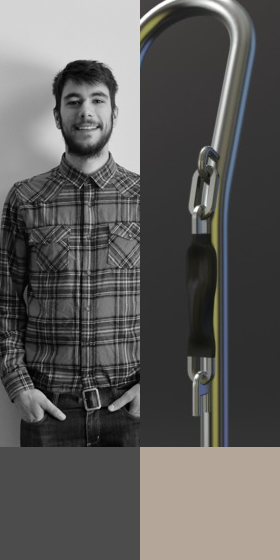
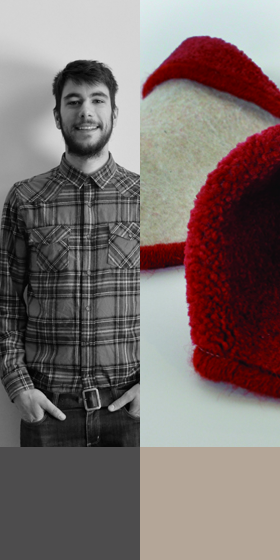
miguel changechanges

diff --git a/public/stylesheets/style.css b/public/stylesheets/style.css
@@ -5,10 +5,9 @@ html, body {
 }
 
 .container {
-	width: 3000px;
-	height: 590px;
+	width: 3400px;
+	max-height: 590px;
 	display: block;
-	background: url('../images/bg.png');
 	margin: 0 0 0 50px;
 	float: left;
 	z-index: 1;
@@ -27,7 +26,7 @@ html, body {
 	position: absolute;
 	width: 300px;
 	float: right;
-	margin: 300px 0 0 2980px;
+	margin: 300px 0 0 3200px;
 }
 
 .thankyou ul li img {
@@ -58,8 +57,8 @@ html, body {
 
 .line { margin: 0 0 0 42px; }
 .line2 { margin: 0 0 0 38px;}
-.line3 { margin: 0 0 0 2955px; }
-.line4 { margin: 0 0 0 2958px; }
+.line3 { margin: 0 0 0 3101px; }
+.line4 { margin: 0 0 0 3097px; }
 .line5 { margin: 0 0 0 960px; }
 .line6 { margin: 0 0 0 963px; }
 .line7 { margin: 0 0 0 960px; }
@@ -122,17 +121,21 @@ header ul.seeus {
 	text-decoration: none;
 }
 
+#info p {
+		padding-top: 20px;
+}
+
 #baker { background: url('../images/People/Stuart_Baker.png');}
 #bennet {background: url('../images/People/OliveR_Bennet.png');}
 #capita {background: url('../images/People/Manuel_Capita.png');}
 #cooper {background: url('../images/People/Jason_Cooper.png');}
 #dabin {background: url('../images/People/Gemma_Dabin.png');}
-#damigah {background: url();}
+#damigah {background: url('../images/People/mahya.png');}
 #dolton {background: url('../images/People/Miguel_Dolton.png');}
 #grater {background: url('../images/People/Jamie_Grater.png');}
 #haque {background: url('../images/People/Mohammed_Haque.png');}
 #howman {background: url('../images/People/Chris_Howman.png');}
-#kjernes {background: url('../images/People/Julie_Kjernes.png');}
+#kjernes {background: url('../images/People/julie.png');}
 #knowland {background: url('../images/People/Joe_Knowland.png');}
 #leitch {background: url('../images/People/James_Leitch.png');}
 #mitchell {background: url('../images/People/Carly_Mitchell.png');}
@@ -182,7 +185,7 @@ li a:hover {
 #work {
 	display: block;
 	width: 580px;
-	margin: 120px 0 0 0;
+	margin: 120px 0 40px 0;
 	float: right;
 }
 
@@ -190,7 +193,7 @@ li a:hover {
 	width: 300px;
 	display: block;
 	float: left;
-	margin: 20px 0 0 10px;
+	margin: 20px 0 40px 10px;
 }
 
 
@@ -200,7 +203,7 @@ li a:hover {
 	color: #333333;
 	font-family: helvetica, arial, sans-serif;
 	font-size: 0.75em !important;
-}
+margin-bottom: 40px;}
 
 .linetest {
 	display: block;

diff --git a/public/dolton.html b/public/dolton.html
@@ -58,7 +58,7 @@
 			<ul class="contact">
 				<li>mcdolton@gmail.com</li>
 				<li><a href="http://www.migueldolton.co.uk">migueldolton.co.uk</a></li>
-				<li>+44 (0) 7999 411 922/li>
+				<li>+44 (0) 7999 411 922</li>
 			</ul>
 			
 			<ul>
@@ -70,12 +70,24 @@
 		</section>
 		
 		<section id="work">
+			<img src="images/Work/slippers.jpg" width="580" height="800" alt="Cooper 1">
 			<img src="images/Work/dolton1.png" width="580" height="800" alt="Cooper 1">
 
 		</section>
 		
 		<section id="info">
 			<ul>
+			
+			<li class="gold">Carpet Slippers</li>
+			<li class="description"><p>Increasing value within materials.</p>
+				<p>Carpet Slippers are the result of extensive material testing and designing with the limitations and capabilities of the processes used. </p>
+
+				<p>The final carpet used is the by-product from its industry, that would otherwise go to waste.</p> 
+
+				<p>If like cozy feet you’ll love Carpet Slippers! Due to the source the colour will be dependant on what stock is available, making your pair one-of-a-batch!</p>
+
+				<p>They are now in production and available for purchase, please enquire via email.</p></li>
+				<br />
 			<li class="gold">Weightless Security</li>
 			<li class="description"><p>A free standing secure public bicycle lock.</p>
 			<p>In London, a pop to the shops on your bicycle is often hindered by the worry of theft, carrying a heavy lock is a burden on the joy of cycling and puts many off the idea.</p>

diff --git a/public/index.html b/public/index.html
@@ -66,7 +66,7 @@
 		<a class="profilepic" id="bennet" href="/bennet.html">
 			<ul>
 				<li>Ollie</li> 
-				<li>Bennet</li>
+				<li>Bennett</li>
 			</ul>
 		</a>
 		<a class="profilepic" id="capita" href="/capita.html">
@@ -87,12 +87,12 @@
 				<li>Dabin</li>
 			</ul>
 		</a>
-		<!-- <a class="profilepic" id="damigah">
+		<a class="profilepic" id="damigah" href="/damigah.html">
 			<ul>
 				<li>Mahya</li> 
 				<li>Damigah</li>
 			</ul>
-		</a> -->
+		</a>
 		<a class="profilepic" id="dolton" href="/dolton.html">
 			<ul>
 				<li>Miguel</li> 
@@ -123,12 +123,6 @@
 				<li>Howman</li>
 			</ul>
 		</a>
-		<!-- <a class="profilepic" id="Kjernes">
-			<ul>
-				<li>Julie</li> 
-				<li>Zoe-Kjernes</li>
-			</ul>
-		</a> -->
 		<a class="profilepic" id="knowland" href="/knowland.html">
 			<ul>
 				<li>Joe</li> 
@@ -188,6 +182,12 @@
 			<ul>
 				<li>Dan</li> 
 				<li>Zabransky</li>
+			</ul>
+		</a>
+		<a class="profilepic">
+			<ul>
+				<li></li> 
+				<li></li>
 			</ul>
 		</a>
 	<section>

diff --git a/public/cooper.html b/public/cooper.html
@@ -81,7 +81,10 @@
 			as developing E5 Bakehouse’s web presence, YOUR MOTHER looks to encourage others to bake by communicating the story and process involved when growing your own mother.</li>
 			</ul>
 			
+			
 			<ul>
+				<br />
+				<br />
 			<li class="gold">Neighbour Note</li>
 			<li class="description">NeighbourNote.co.uk is an online notice board that connects neighbours within shared resident buildings. It’s goal, by creating a form of communication for residents is to strengthen communities and improve security. NeighbourNote.co.uk is built using Ruby on Rails and is currently being tested on a shared resident building in Whitechapel, London.</li>
 			</ul>

diff --git a/public/stylesheets/reset.css b/public/stylesheets/reset.css
@@ -135,9 +135,6 @@ body, select, input, textarea {color: #333;}
 a {color: #03f;}
 a:hover {color: #69f;}
 
-/* Custom text-selection colors (remove any text shadows: twitter.com/miketaylr/status/12228805301) */
-::-moz-selection{background: #fcd700; color: #fff; text-shadow: none;}
-::selection {background: #fcd700; color: #fff; text-shadow: none;} 
 
 /*	j.mp/webkit-tap-highlight-color */
 a:link {-webkit-tap-highlight-color: #fcd700;} 

diff --git a/public/damigah.html b/public/damigah.html
@@ -70,9 +70,7 @@
 		</section>
 		
 		<section id="work">
-			<img src="images/Work/cooper_1.png" width="580" height="400" alt="Cooper 1">
-			<img src="images/Work/cooper_3.png" width="580" height="400" alt="Cooper 1">
-			<img src="images/Work/cooper_2.png" width="580" height="400" alt="Cooper 1">
+			<img src="images/Work/mahya.png" width="580" height="800" alt="Cooper 1">
 		</section>
 		
 		<section id="info">

diff --git a/public/bennet.html b/public/bennet.html
@@ -52,7 +52,7 @@
 		</header>
 		<section id="name">
 			<ul>
-				<li>Oliver Bennet</li>
+				<li>Oliver Bennett</li>
 				<li class="darkbrown">BA (Hons) Interaction Design</li>
 			</ul>
 			<ul class="contact">
